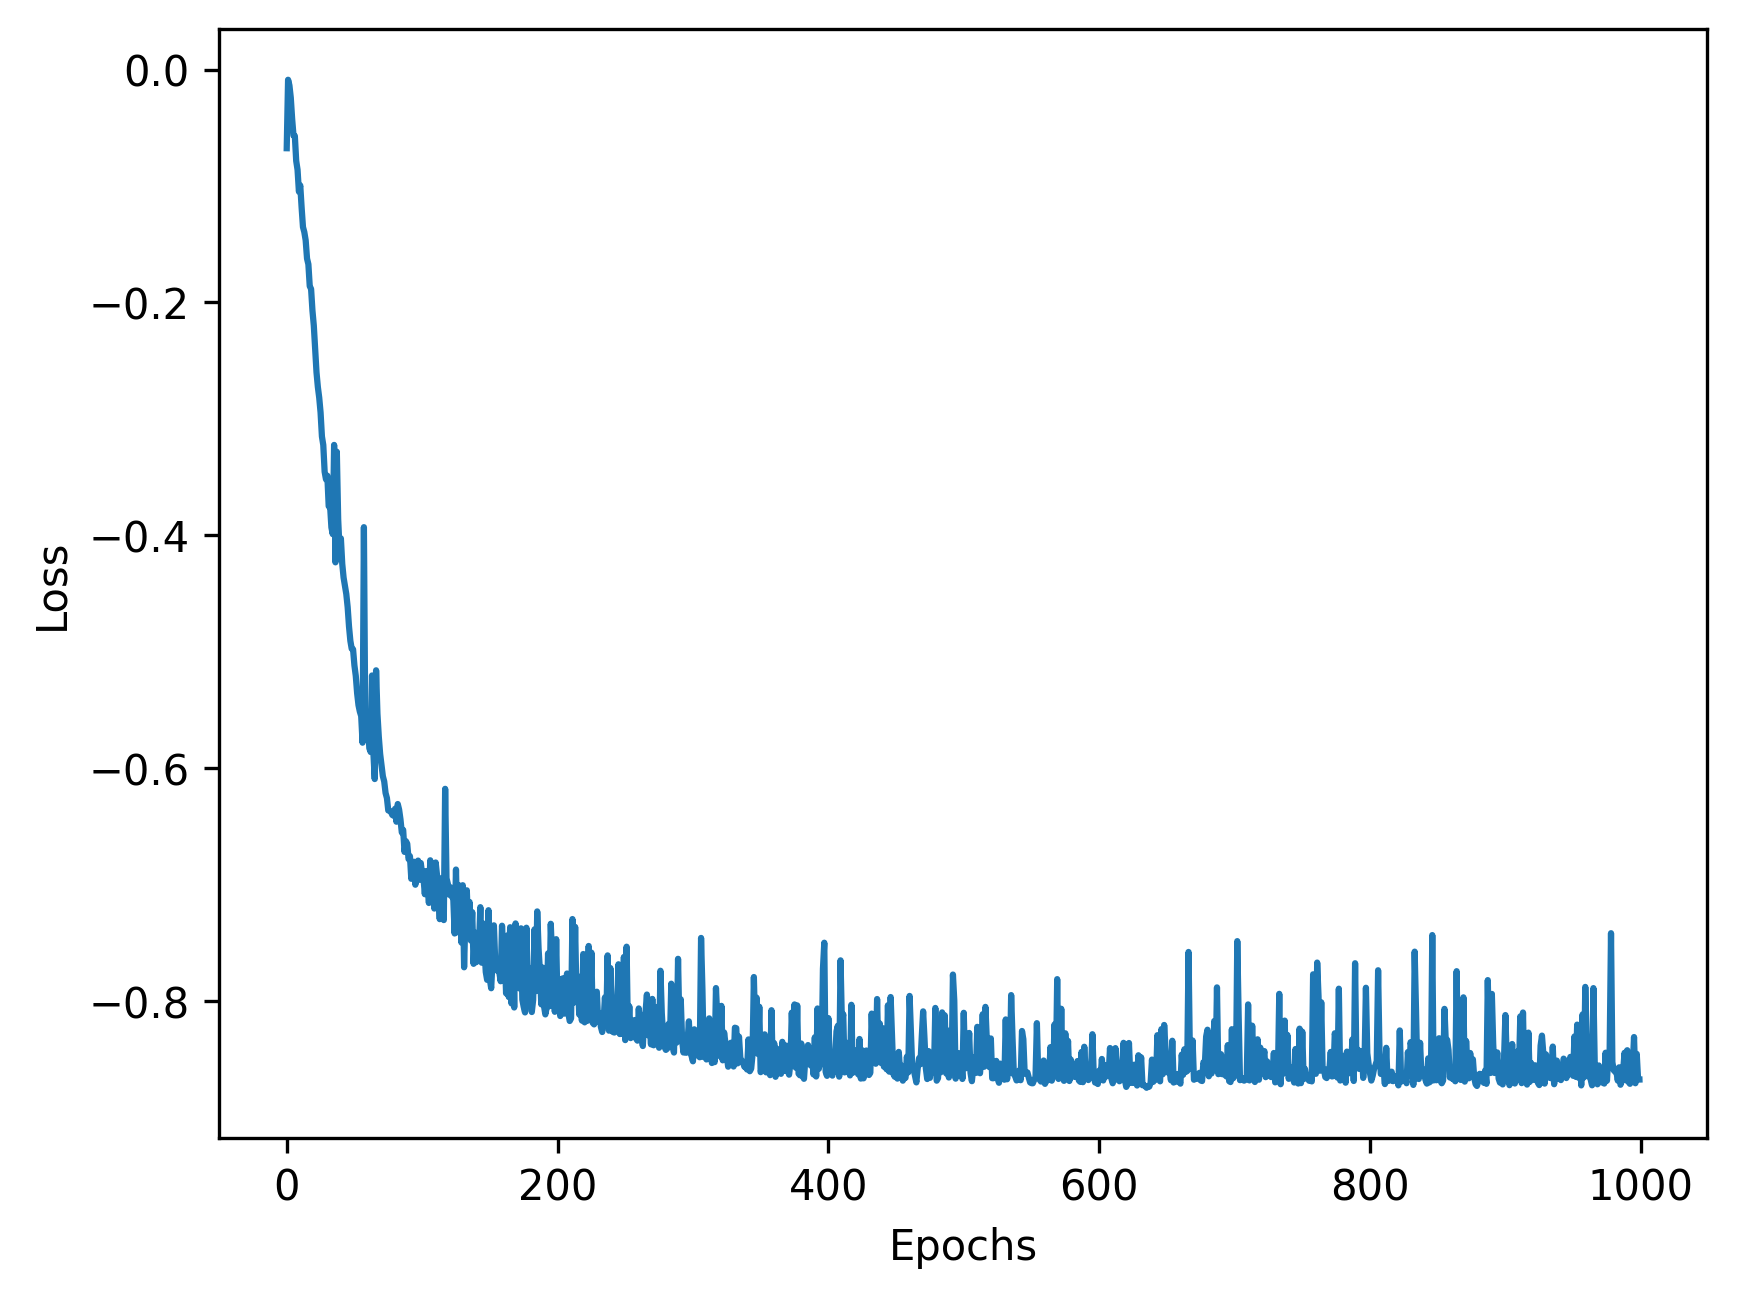
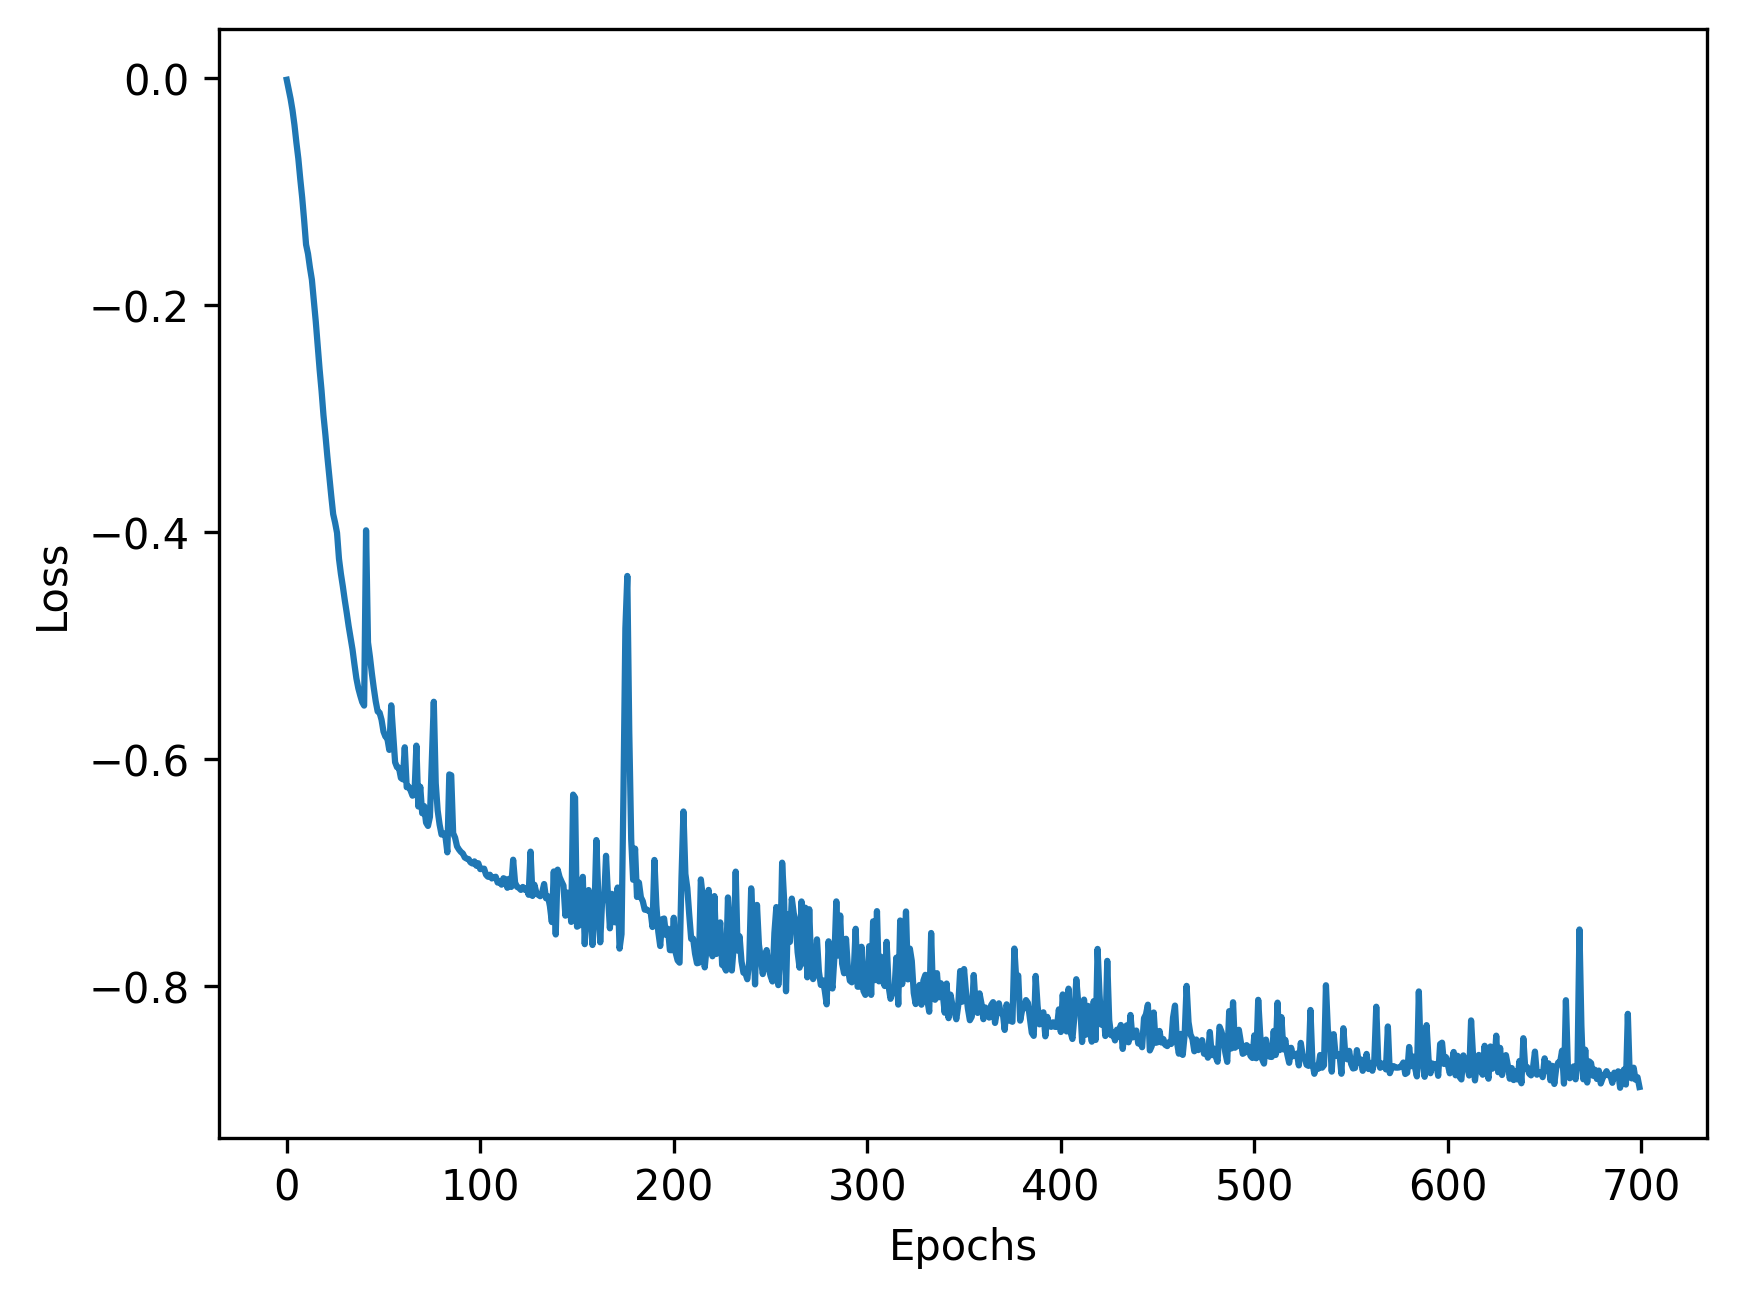
important improvement, new architecture with autoencoder and right resolution

diff --git a/net.py b/net.py
@@ -7,6 +7,7 @@ import numpy as np
 from matplotlib import pyplot as plt
 import os
 import loss as lf
+import time
 
 
 def gumbel_sigmoid(logits: Tensor, tau: float = 1, hard: bool = False, threshold: float = 0.5) -> Tensor:
@@ -57,8 +58,8 @@ class rcwa_solver():
         torcwa.rcwa_geo.device = device
         torcwa.rcwa_geo.Lx = self.L[0]
         torcwa.rcwa_geo.Ly = self.L[1]
-        torcwa.rcwa_geo.nx = 256
-        torcwa.rcwa_geo.ny = 128
+        torcwa.rcwa_geo.nx = 2048
+        torcwa.rcwa_geo.ny = 512
         torcwa.rcwa_geo.grid()
         torcwa.rcwa_geo.edge_sharpness = 1000.
 
@@ -92,31 +93,38 @@ class ConvNetRCWA(nn.Module):
         super().__init__()
 
         self.register_buffer("angles", torch.arange(0, 360, step, dtype=torch.float32))
-        self.register_buffer("initial_rho", nn.Parameter(torch.rand(1, 2 ** n, 2 ** m)))
+        self.register_buffer("initial_rho", nn.Parameter(torch.rand(1, 1, 2 ** n, 2 ** m)))
 
         self.net = nn.Sequential(
-            # fist halving, reasoning
+            # first halving, 1024 x 256, reasoning
             nn.Conv2d(1, 32, kernel_size=3, stride=2, padding=1),
             nn.InstanceNorm2d(32),
             nn.ReLU(),
 
-            # reasoning
-            nn.Conv2d(32, 64, kernel_size=3, stride=1, padding='same'),
+            # second halving, 512 x 128, reasoning
+            nn.Conv2d(32, 64, kernel_size=3, stride=2, padding=1),
             nn.InstanceNorm2d(64),
             nn.ReLU(),
 
-            # second halving
-            nn.Conv2d(64, 128, kernel_size=3, stride=2, padding=1),
+            # reasoning
+            nn.Conv2d(64, 128, kernel_size=3, stride=1, padding='same'),
             nn.InstanceNorm2d(128),
             nn.ReLU(),
 
-            # reasoning
-            nn.Conv2d(128, 32, kernel_size=3, stride=1, padding='same'),
+            # first doubling, 1024 x 256, reasoning
+            nn.Upsample(scale_factor=2, mode='nearest'),
+            nn.Conv2d(128, 64, kernel_size=3, stride=1, padding='same'),
+            nn.InstanceNorm2d(64),
+            nn.ReLU(),
+
+            # second doubling, 2048 x 512, reasoning
+            nn.Upsample(scale_factor=2, mode='nearest'),
+            nn.Conv2d(64, 32, kernel_size=3, stride=1, padding='same'),
             nn.InstanceNorm2d(32),
             nn.ReLU(),
 
-            # last halving
-            nn.Conv2d(32, 1, kernel_size=3, stride=2, padding=1)    # desired size: 2048 x 512
+            # last reasoning
+            nn.Conv2d(32, 1, kernel_size=3, stride=1, padding='same')    # desired size: 2048 x 512 (2^11 x 2^9)
         )
 
         #self.threshold = nn.Parameter(torch.tensor(0.0))
@@ -125,7 +133,7 @@ class ConvNetRCWA(nn.Module):
         """logits = self.net(self.initial_rho)
         balanced_logits = (logits - logits.mean()) + self.threshold"""
         # squeeze removes the first dimension (channels=1)
-        rho = gumbel_sigmoid(self.net(self.initial_rho), tau=tau, hard=True).squeeze(0)
+        rho = gumbel_sigmoid(self.net(self.initial_rho), tau=tau, hard=True).squeeze()
         print(rho)
         sigmas = []
 
@@ -134,13 +142,14 @@ class ConvNetRCWA(nn.Module):
             singular_values = torch.linalg.svdvals(jones_matrix)
             sigmas.append(torch.min(singular_values))
 
-        return rho.squeeze(0), torch.stack(sigmas)
+        return rho, torch.stack(sigmas)
 
 
 if __name__ == '__main__':
     device = torch.device("cuda" if torch.cuda.is_available() else "cpu")
     #model = ConvNetRCWA(n=11, m=10, step=360)
-    model = ConvNetRCWA(n=14, m=12, step=360)
+    #model = ConvNetRCWA(n=14, m=12, step=360)
+    model = ConvNetRCWA(n=11, m=9, step=360)
     model = model.to(device)
 
     # if there is a good model already found, load it.
@@ -154,7 +163,7 @@ if __name__ == '__main__':
         best_loss = float('inf')
         lr = 0.001"""
     
-    epochs = 1000
+    epochs = 700
 
     solver = rcwa_solver(device)
     optimizer = optim.Adam(model.parameters(), lr=0.0003, betas=(0.5, 0.9))
@@ -163,6 +172,7 @@ if __name__ == '__main__':
 
     loss_plot = []
     best_loss = float('inf')
+    start_total_time = time.time()
 
     for epoch in range(epochs):
         model.train()
@@ -171,6 +181,8 @@ if __name__ == '__main__':
         current_tau = max(0.1, 3.0 * (0.995 ** epoch))
 
         r, v = model(solver, tau=current_tau)
+        print(r.shape)
+        print(v)
 
         loss = -lf.harmonic_mean(v)
         loss_plot.append(loss.item())
@@ -190,6 +202,12 @@ if __name__ == '__main__':
                 'model_state': model.state_dict()
             }
             torch.save(checkpoint, 'best_model.pth')
+
+    if torch.cuda.is_available():
+        torch.cuda.synchronize()
+
+    total_time = time.time() - start_total_time
+    print(f"total time: {total_time/60:.2f} minutes")
 
     print(best_loss)
 